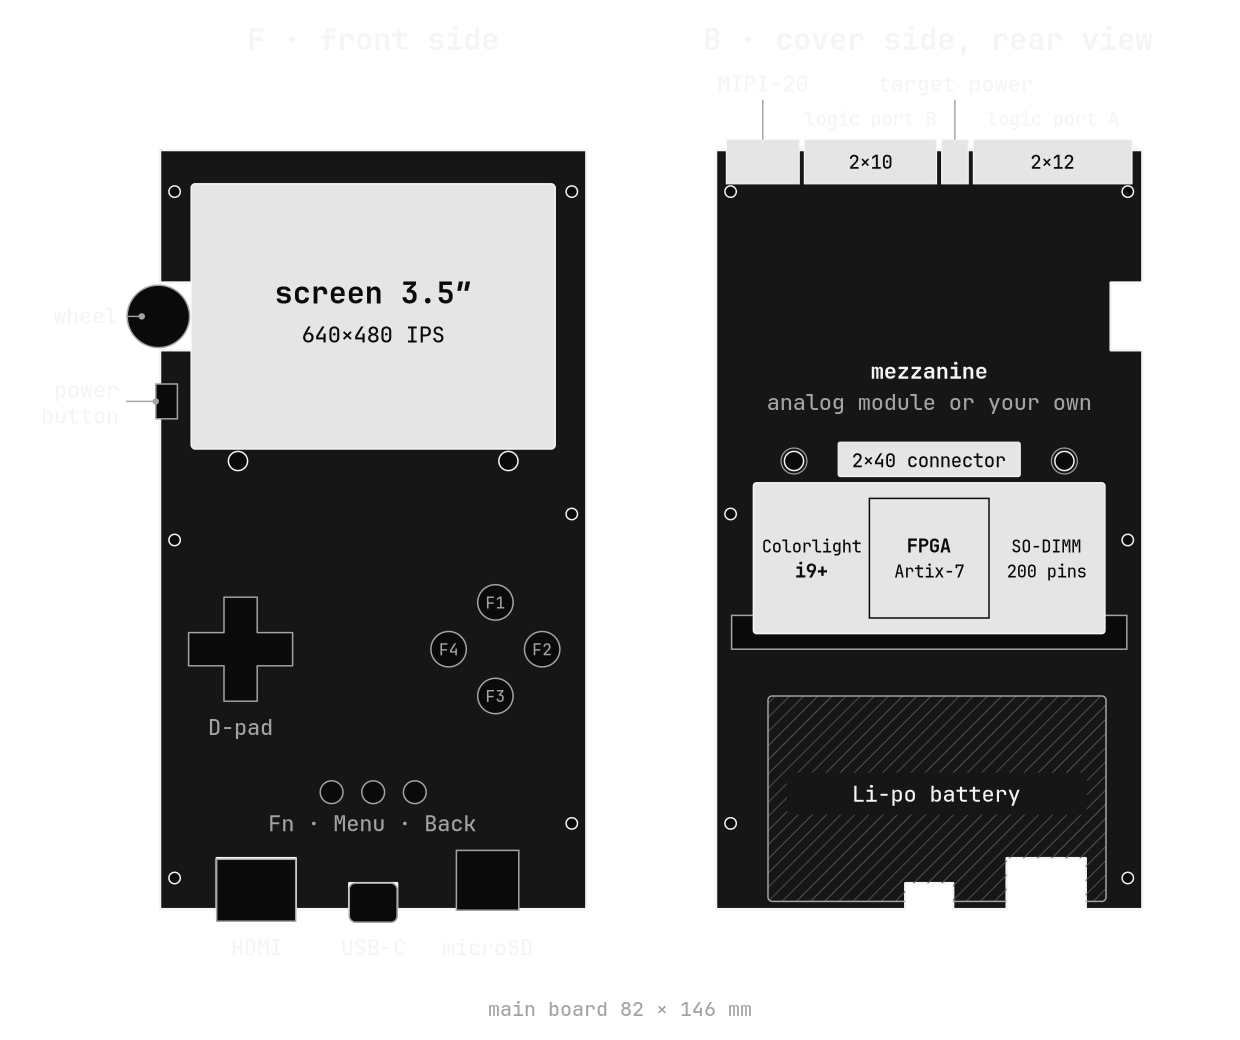
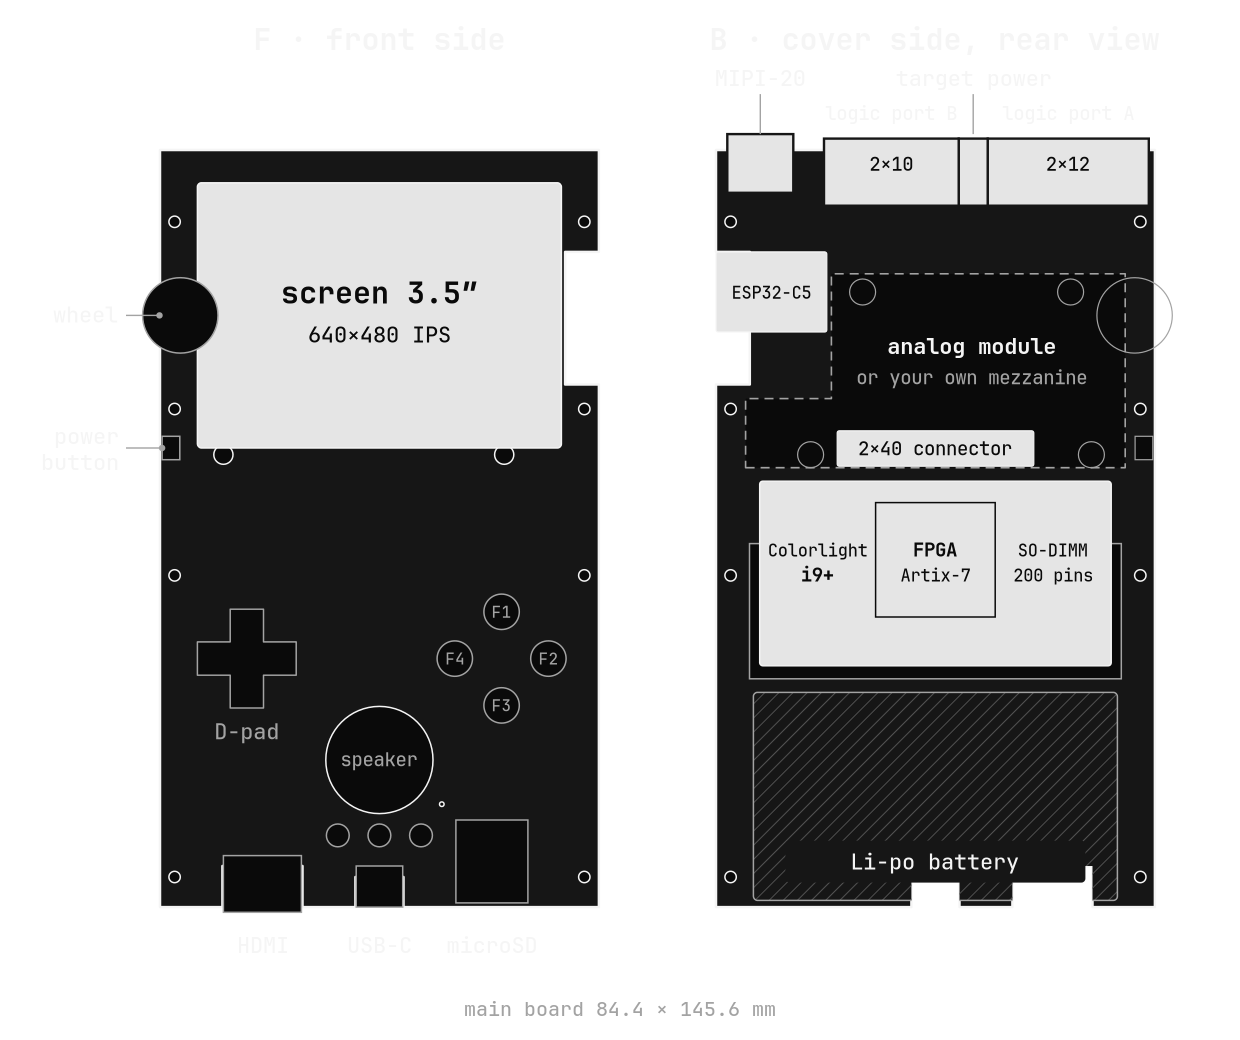
docs(readme): зоны платы и рендер по механике, каталог analog-module

diff --git a/README.md b/README.md
@@ -135,7 +135,7 @@ firmware/            прошивка супервизора CH32H417
 profiles/            содержимое карты microSD
 hardware/            платы и корпус
 ├── mainboard/       главная плата, KiCad 10
-├── adc-mezzanine/   аналоговый модуль
+├── analog-module/   аналоговый модуль
 ├── panel-adapter/   переходник дисплея
 ├── case/            корпус, FreeCAD 1.1 и STL
 └── docs/            компоненты (BOM) и проверка по даташитам

diff --git a/README.en.md b/README.en.md
@@ -137,7 +137,7 @@ firmware/            CH32H417 supervisor firmware
 profiles/            microSD card contents
 hardware/            boards and case
 ├── mainboard/       main board, KiCad 10
-├── adc-mezzanine/   analog module
+├── analog-module/   analog module
 ├── panel-adapter/   display adapter
 ├── case/            case, FreeCAD 1.1 and STL
 └── docs/            bill of materials and datasheet checks
